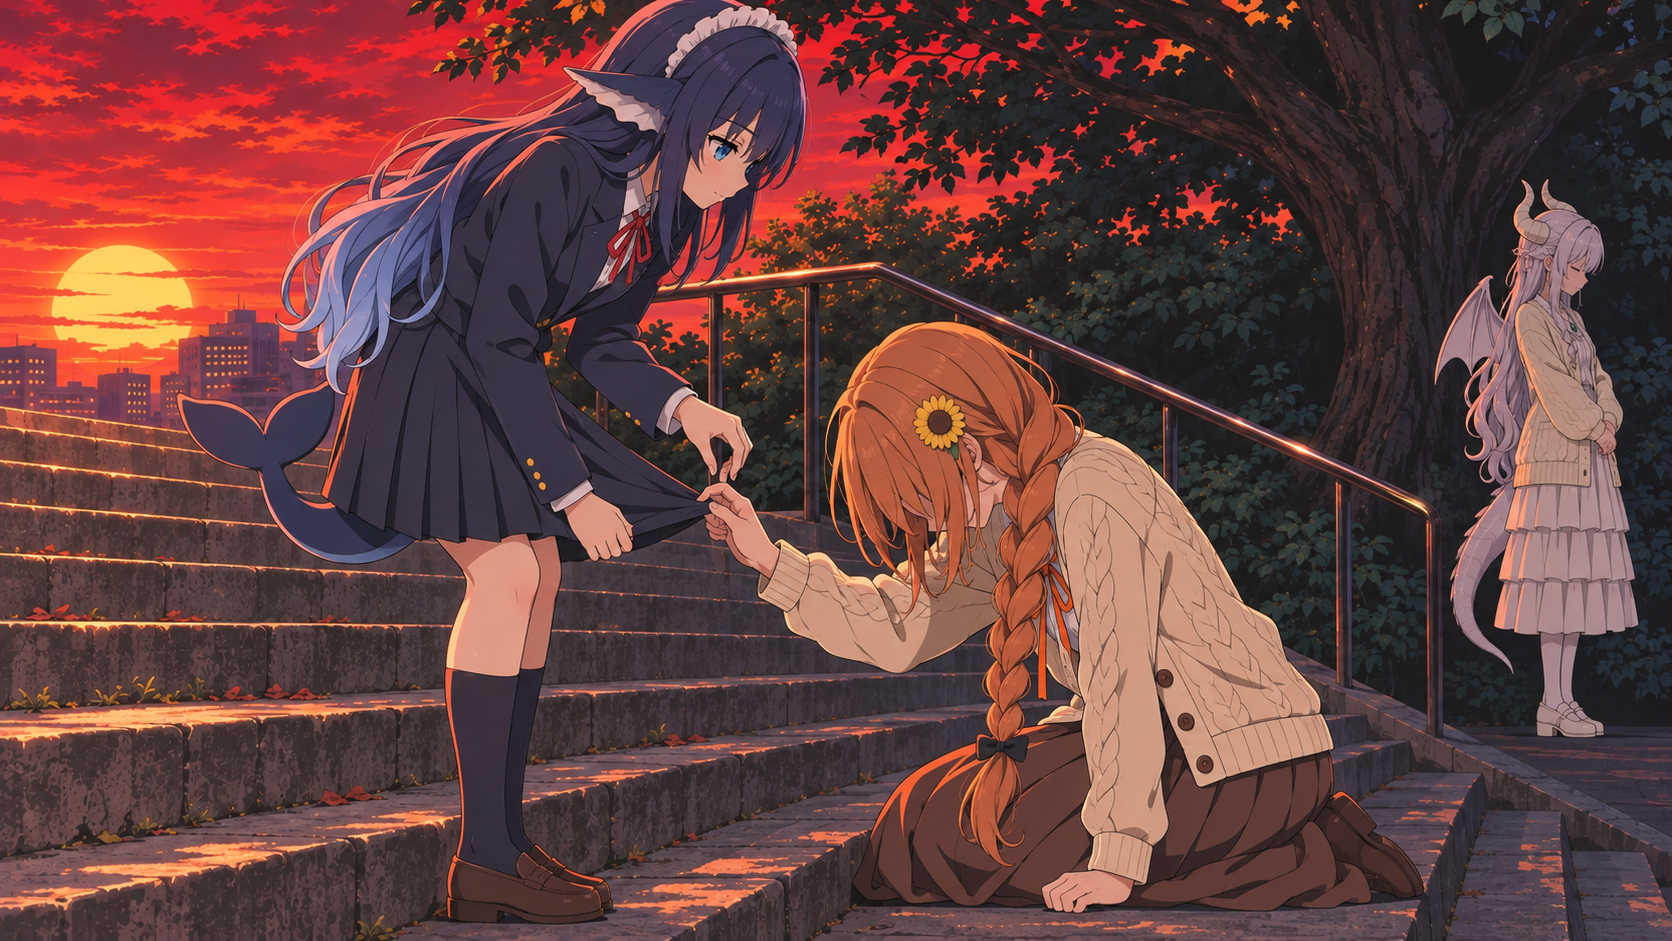
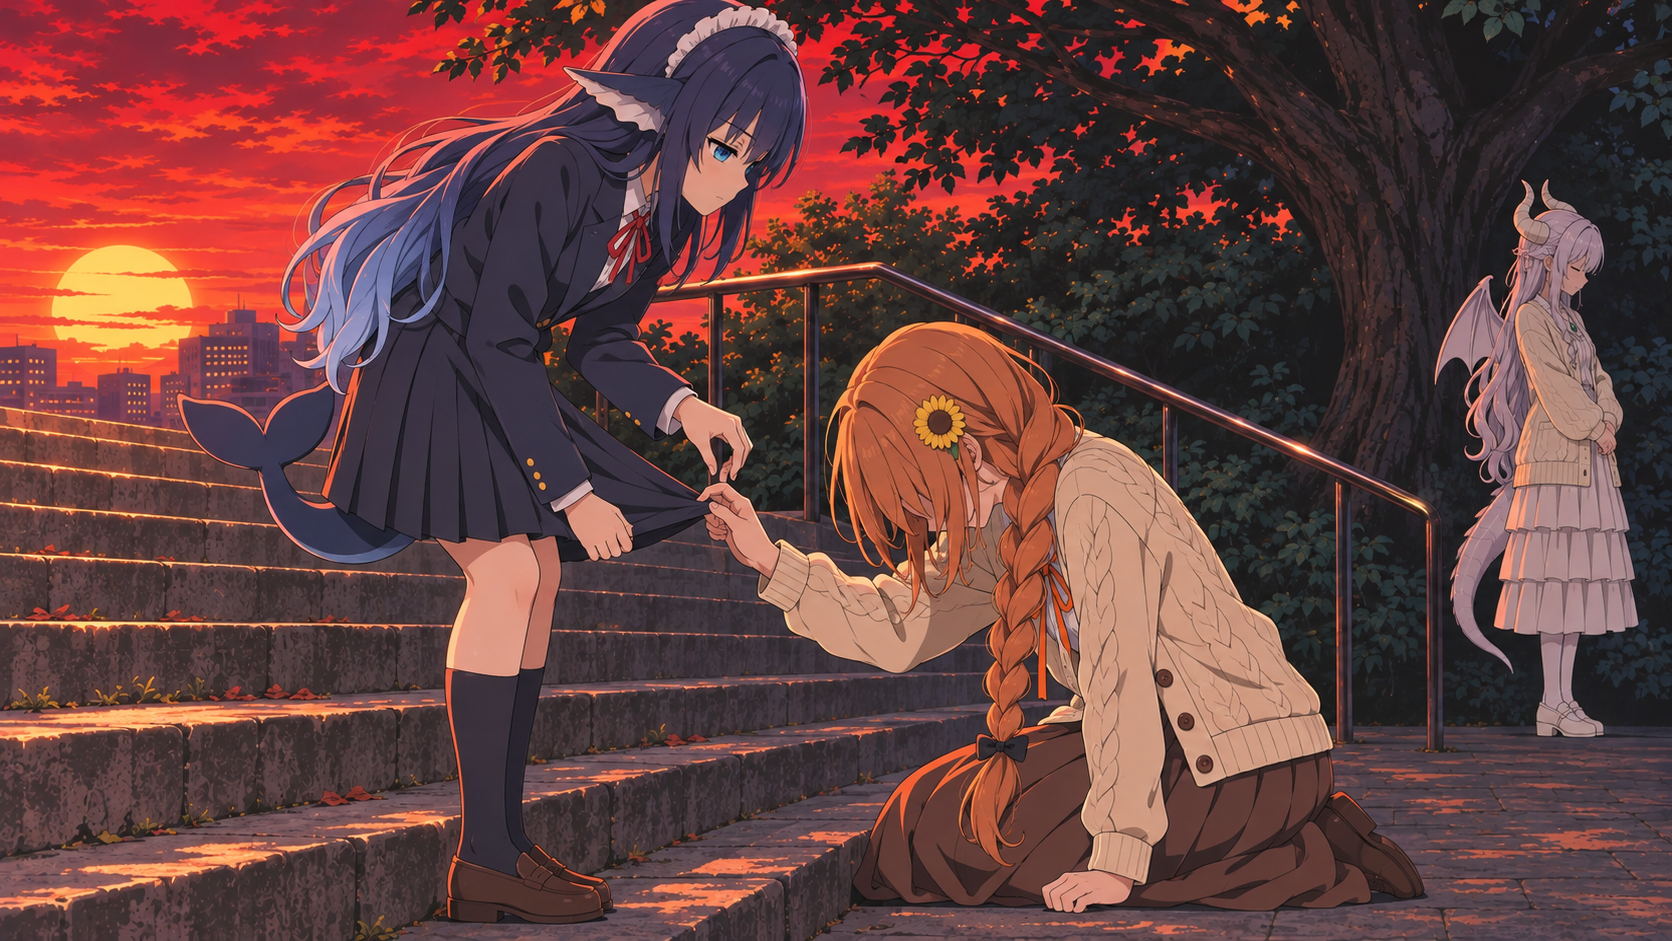
Update EP04 round 3 fixes (D flat landing, F flat landing, K notebook+neck)

diff --git a/ops/images/aigo/EP04-PART2-ACT2.md b/ops/images/aigo/EP04-PART2-ACT2.md
@@ -1,64 +1,10 @@
-# 《AiGO!!!!!》第4话 · Part 2 (Window 2 · 5 Images: Redo E + E open + Fix F [Cover] + F open + L open)
+# 《AiGO!!!!!》第4话 · Round 3 Fix (Window 2 · 1 Image: Fix `F` Stairs & Handrail → Flat Landing [Cover])
 
-**CRITICAL RULE FOR DP (THE WHALE GIRL):**
-> **"for dp, she shouldn't has not emotion in face"** — DP = the whale girl: **no smile, no smirk, no blush** in 第4话. Her face stays blank and cold in every shot and every mouth frame.
+**Reference image to load from this repo (`whitecarp/agentic-work-lab`):**
+- `ops/images/aigo/stills/ep04/EP4_F_fingers.png`
 
-All reference images are in `ops/images/aigo/stills/` and `ops/images/aigo/stills/ep04/` in this repository (`whitecarp/agentic-work-lab`).
-Please generate these **5 images** in order:
-
----
-
-## 1. Redo `E` · `EP4_E_whale_above.png` (Waist-up shot, large face, NO smirk/smile — completely expressionless)
-**Reference images to load from repo:**
-- `ops/images/aigo/stills/EP2X_00_cast.png`
-- `ops/images/aigo/stills/ep04/EP4_A_steps.png`
+Please generate this **1 image** using the exact prompt below:
 
 ```
-Use the attached character sheet (five girls) as the exact character and outfit reference; faces, hair, ears, horns, tails, eye colours and outfits must match. Use the attached wide shot of the stone steps as the location: the same wide stone steps, the same metal handrails on both sides, the same trees and the same red sunset. The top of the steps is where the whale girl stood in the wide shot, and the setting sun is beyond the top. Art style: a crisp Japanese TV-anime frame: thin black line art, two-tone cel shading, soft desaturated colours, the look of a modern drama anime, not a glossy painted poster. The characters are adult anime women. Nobody wears a mask. Five fingers per hand. No text, letters, logos, watermarks or subtitles anywhere. 16:9, 1920×1080 or larger.
-
-Characters: The whale girl (far left on the five-girl sheet: navy hair fading lighter at the tips, bright blue eyes, fin-shaped ears, a thin white frilled headband, a navy blazer with a small red ribbon, a dark pleated skirt, a navy whale tail).
-
-Shot: Medium close-up from a low angle, from the kneeling amber girl's point of view a step below, looking UP at the whale girl from her waist up; her face is large in the frame. She stands at the top of the steps and looks down at us, the huge setting sun right behind her head so she is strongly backlit, rim light on her hair and fin-shaped ears; her face is in cool shadow but clearly visible and completely expressionless: calm, cold eyes empty of feeling, her mouth a flat closed line, no smile, no blush. Behind her only the red sky and the sun; no steps going down behind her. Her lips are closed.
-```
-
----
-
-## 2. `E open` (talking · DP expressionless!) · `kuchipaku/EP4_E_whale_above_mouth-open.png`
-**Reference image:** Use the newly generated waist-up `EP4_E_whale_above.png` from Step 1 above.
-
-```
-Edit ONLY the mouth of the whale girl. Her lips part just a little, as when calmly saying "e": a narrow opening with a thin line of upper teeth. Not a gasp, no tongue. Her face stays completely expressionless: do not change her eyes, eyelids, eyebrows, cheeks or blush in any way. Everything else in the image stays 100% untouched. Same 16:9 framing, same position and size, same anime style, no text.
-```
-
----
-
-## 3. Fix `F` (Also the Episode 4 Cover) · `EP4_F_fingers.png`
-**Reference image to load from repo:**
-- `ops/images/aigo/stills/ep04/EP4_F_fingers-v1-stairs.png`
-
-*(Note: If you are doing this manually in the ChatGPT UI, you can also use the brush tool (`Mark`) on these two areas as noted in `EP04-PASTE.md`.)*
-
-```
-Edit ONLY two specific areas of the attached image (EP4_F_fingers-v1-stairs.png) while keeping the rest of the picture 100% untouched:
-1. The whale girl's face on the left: Make her face completely expressionless: her mouth a flat, closed line with no smile, her eyes calm, cold and empty of feeling, still looking down at the kneeling girl. No blush. Keep her hair, ears, headband and everything else exactly as it is.
-2. The steps to the right of the kneeling amber girl: The stairs end here: the amber girl kneels on the lowest step, and to the right of her is a flat stone landing at the foot of the stairs, stretching back to the tree where the dragon girl stands. No steps climbing up to the right of her. Keep the kneeling amber girl, her shoes, her skirt, the whale girl's hands prying her fingers off the blazer hem, and the dragon girl in the background exactly as they are. Same 16:9 framing, same anime style, no text.
-```
-
----
-
-## 4. `F open` (talking · DP expressionless!) · `kuchipaku/EP4_F_fingers_mouth-open.png`
-**Reference image:** Use the fixed `EP4_F_fingers.png` you just generated in Step 3 above.
-
-```
-Edit ONLY the mouth of the whale girl on the left. Her lips part just a little, as when calmly saying "e": a narrow opening with a thin line of upper teeth. Not a gasp, no tongue. Her face stays completely expressionless: do not change her eyes, eyelids, eyebrows, cheeks or blush in any way. Everything else in the image stays 100% untouched. Same 16:9 framing, same position and size, same anime style, no text.
-```
-
----
-
-## 5. `L open` (talking) · `kuchipaku/EP4_L_claude_cruel_mouth-open.png`
-**Reference image to load from repo:**
-- `ops/images/aigo/stills/ep04/EP4_L_claude_cruel.png`
-
-```
-Edit the attached anime image. Change ONLY the mouth of the amber girl: open as when saying "a" in normal speech, a small rounded opening with a little of the upper teeth and the dark inside of the mouth. Not shouting, not wide. Keep her expression. Everything else stays exactly as it is: eyes, tears, hair, ears, outfit, hands, the other girls, the lighting, the framing and the background. Same 16:9 framing, same position and size, same anime style, no text.
+Edit the attached picture. Change ONLY the stone steps, the ground and the metal handrail. The whale girl and the kneeling amber girl are both on one flat, level stone landing partway up the long park steps. Behind the whale girl, on the left, the next flight of stone steps climbs up and away toward the sunset, as it does now. Under and in front of both girls the paving is flat all the way to the bottom edge of the picture: remove the steps that go down in the lower-left corner. The handrail climbs beside the steps on the left, then runs level above the flat landing; it does not slope down across the landing. The dragon girl stands on the same flat landing under the tree. Keep all three girls exactly as they are: poses, faces, hands, hair, clothes and shoes. Same framing, same anime style, no text.
 ```

diff --git a/ops/images/aigo/EP04-PART3-ACT3.md b/ops/images/aigo/EP04-PART3-ACT3.md
@@ -1,67 +1,10 @@
-# 《AiGO!!!!!》第4话 · Part 3 (Window 3 · 6 Images: Fix K + Open-Mouth I, M, N, O, R)
+# 《AiGO!!!!!》第4话 · Round 3 Fix (Window 3 · 1 Image: Fix `K` Notebook + Guitar Neck from Behind)
 
-All reference images are in `ops/images/aigo/stills/` and `ops/images/aigo/stills/ep04/` in this repository (`whitecarp/agentic-work-lab`).
-Please generate these **6 images** in order:
+**Reference image to load from this repo (`whitecarp/agentic-work-lab`):**
+- `ops/images/aigo/stills/ep04/EP4_K_shock.png`
 
----
-
-## 1. Fix `K` · `EP4_K_shock.png` (v1 had a bent neck; v2 put the guitar beside her instead of on her back)
-**Reference image to load from repo:**
-- `ops/images/aigo/stills/ep04/EP4_K_shock-v1-bent-neck.png`
-
-*(Note: Edit ONLY the guitar area and the space just above her right shoulder [viewer's left], keeping both girls 100% untouched.)*
+Please generate this **1 image** using the exact prompt below:
 
 ```
-Edit ONLY the guitar on the orange cat girl's back and the space just above her right shoulder (viewer's left) in the attached image (EP4_K_shock-v1-bent-neck.png):
-She wears this guitar on her back, hidden behind her body. Only the top of its straight neck and the headstock show, rising straight up from behind her right shoulder, close to her head. Nothing stands or floats beside her: fill that space with the background, the concrete pillar and the dusk light. Keep both girls, their faces, expressions, hands, clothes, hair, ears and tails 100% untouched and exactly as they are. Same 16:9 framing, same anime style, no text.
-```
-
----
-
-## 2. `I open` (talking) · `kuchipaku/EP4_I_overpass_mouth-open.png`
-**Reference image to load from repo:**
-- `ops/images/aigo/stills/ep04/EP4_I_overpass.png`
-
-```
-Edit the attached anime image. Change ONLY the mouth of the orange cat girl on the left, in the red beret: open as when saying "a" in normal speech, a small rounded opening with a little of the upper teeth and the dark inside of the mouth. Not shouting, not wide. Keep her expression. Everything else stays exactly as it is: eyes, tears, hair, ears, outfit, hands, the other girls, the lighting, the framing and the background. Same 16:9 framing, same position and size, same anime style, no text.
-```
-
----
-
-## 3. `M open` (shouting) · `kuchipaku/EP4_M_grok_slam_mouth-open.png`
-**Reference image to load from repo:**
-- `ops/images/aigo/stills/ep04/EP4_M_grok_slam.png`
-
-```
-Edit the attached anime image. Change ONLY the mouth of the blonde girl at the drums: wide open as when shouting, the upper and lower teeth and the dark inside of the mouth showing, the jaw dropped. Keep her expression. Everything else stays exactly as it is: eyes, tears, hair, ears, outfit, hands, the other girls, the lighting, the framing and the background. Same 16:9 framing, same position and size, same anime style, no text.
-```
-
----
-
-## 4. `N open` (shouting) · `kuchipaku/EP4_N_mistral_cry_mouth-open.png`
-**Reference image to load from repo:**
-- `ops/images/aigo/stills/ep04/EP4_N_mistral_cry.png`
-
-```
-Edit the attached anime image. Change ONLY the mouth of the orange cat girl: wide open as when shouting, the upper and lower teeth and the dark inside of the mouth showing, the jaw dropped. Keep her expression. Everything else stays exactly as it is: eyes, tears, hair, ears, outfit, hands, the other girls, the lighting, the framing and the background. Same 16:9 framing, same position and size, same anime style, no text.
-```
-
----
-
-## 5. `O open` (talking) · `kuchipaku/EP4_O_llama_case_mouth-open.png`
-**Reference image to load from repo:**
-- `ops/images/aigo/stills/ep04/EP4_O_llama_case.png`
-
-```
-Edit the attached anime image. Change ONLY the mouth of the alpaca girl sitting on the amp on the right: open as when saying "a" in normal speech, a small rounded opening with a little of the upper teeth and the dark inside of the mouth. Not shouting, not wide. Keep her expression. Everything else stays exactly as it is: eyes, tears, hair, ears, outfit, hands, the other girls, the lighting, the framing and the background. Same 16:9 framing, same position and size, same anime style, no text.
-```
-
----
-
-## 6. `R open` (talking) · `kuchipaku/EP4_R_gemini_resolve_mouth-open.png`
-**Reference image to load from repo:**
-- `ops/images/aigo/stills/ep04/EP4_R_gemini_resolve.png`
-
-```
-Edit the attached anime image. Change ONLY the mouth of the purple cat girl: open as when saying "a" in normal speech, a small rounded opening with a little of the upper teeth and the dark inside of the mouth. Not shouting, not wide. Keep her expression. Everything else stays exactly as it is: eyes, tears, hair, ears, outfit, hands, the other girls, the lighting, the framing and the background. Same 16:9 framing, same position and size, same anime style, no text.
+Edit the attached picture. Change only two things. 1) The purple cat girl holds her purple notebook pressed to her chest with one arm, as she did a moment earlier, while her other hand covers her mouth in horror. 2) The orange cat girl wears her guitar on her back, so from the front we see only the plain back of its straight neck and the back of the headstock behind her right shoulder: no frets, strings or tuning pegs facing us. Keep everything else exactly as it is: both faces and expressions, hair, ears, clothes, the lighting, the framing and the background. Same anime style, no text.
 ```

diff --git a/ops/images/aigo/EP04-PART1-ACT1.md b/ops/images/aigo/EP04-PART1-ACT1.md
@@ -1,57 +1,10 @@
-# 《AiGO!!!!!》第4话 · Part 1 (Window 1 · 5 Images: Fix B + Open-Mouth B, C, D, J)
+# 《AiGO!!!!!》第4话 · Round 3 Fix (Window 1 · 1 Image: Fix `D` Stairs → Flat Landing)
 
-**CRITICAL RULE FOR DP (THE WHALE GIRL):**
-> **"for dp, she shouldn't has not emotion in face"** — DP = the whale girl: **no smile, no smirk, no blush** in 第4话. Her face stays blank and cold in every shot and every mouth frame.
-
-All reference images are in `ops/images/aigo/stills/` and `ops/images/aigo/stills/ep04/` in this repository (`whitecarp/agentic-work-lab`).
-Please generate these **5 images** in order:
-
----
-
-## 1. Fix `B` · `EP4_B_claude_plead.png` (v2 drew red irises; she has amber eyes)
-**Reference images to load from repo:**
-- `ops/images/aigo/stills/ep04/EP4_B_claude_plead-v2-red-eyes.png`
-- `ops/images/aigo/stills/EP2X_00_cast.png`
-
-```
-Edit the attached picture of the crying amber girl on the stone steps. Change ONLY the colour of her irises: make them warm amber-gold, exactly like her eyes on the attached character sheet (five girls, second from left). Keep her tears, the wet, red-rimmed eyelids, her expression and everything else exactly as it is: hair, sunflower hairpin, outfit, hands, the steps, the lighting, the framing and the background. Same 16:9 framing, same anime style, no text.
-```
-
----
-
-## 2. `B open` (talking) · `kuchipaku/EP4_B_claude_plead_mouth-open.png`
-**Reference image:** Use the fixed `EP4_B_claude_plead.png` you just generated in Step 1 above.
-
-```
-Edit the attached anime image. Change ONLY the mouth of the amber girl: open as when saying "a" in normal speech, a small rounded opening with a little of the upper teeth and the dark inside of the mouth. Not shouting, not wide. Keep her expression. Everything else stays exactly as it is: eyes, tears, hair, ears, outfit, hands, the other girls, the lighting, the framing and the background. Same 16:9 framing, same position and size, same anime style, no text.
-```
-
----
-
-## 3. `C open` (talking · DP expressionless!) · `kuchipaku/EP4_C_whale_turn_mouth-open.png`
-**Reference image to load from repo:**
-- `ops/images/aigo/stills/ep04/EP4_C_whale_turn.png`
-
-```
-Edit ONLY the mouth of the whale girl. Her lips part just a little, as when calmly saying "e": a narrow opening with a thin line of upper teeth. Not a gasp, no tongue. Her face stays completely expressionless: do not change her eyes, eyelids, eyebrows, cheeks or blush in any way. Everything else in the image stays 100% untouched. Same 16:9 framing, same position and size, same anime style, no text.
-```
-
----
-
-## 4. `D open` (shouting) · `kuchipaku/EP4_D_kneel_mouth-open.png`
-**Reference image to load from repo:**
+**Reference image to load from this repo (`whitecarp/agentic-work-lab`):**
 - `ops/images/aigo/stills/ep04/EP4_D_kneel.png`
 
-```
-Edit the attached anime image. Change ONLY the mouth of the amber girl: wide open as when shouting, the upper and lower teeth and the dark inside of the mouth showing, the jaw dropped. Keep her expression. Everything else stays exactly as it is: eyes, tears, hair, ears, outfit, hands, the other girls, the lighting, the framing and the background. Same 16:9 framing, same position and size, same anime style, no text.
-```
-
----
-
-## 5. `J open` (talking) · `kuchipaku/EP4_J_claude_cold_mouth-open.png`
-**Reference image to load from repo:**
-- `ops/images/aigo/stills/ep04/EP4_J_claude_cold.png`
+Please generate this **1 image** using the exact prompt below:
 
 ```
-Edit the attached anime image. Change ONLY the mouth of the amber girl: open as when saying "a" in normal speech, a small rounded opening with a little of the upper teeth and the dark inside of the mouth. Not shouting, not wide. Keep her expression. Everything else stays exactly as it is: eyes, tears, hair, ears, outfit, hands, the other girls, the lighting, the framing and the background. Same 16:9 framing, same position and size, same anime style, no text.
+Edit the attached picture. Change ONLY the stone steps and the ground under and around the two girls. Both girls are on one flat, level stone landing partway up the long park steps: the whale girl stands on it on the left, and the amber girl kneels on it with both knees and both feet on the same flat paving. The flat paving continues to the bottom edge of the picture: no steps under the girls or in front of them. Behind them, only on the left, the next flight of stone steps climbs up and away toward the sunset. The metal handrail rises beside those steps and runs level above the flat landing on the right. Keep both girls exactly as they are: poses, faces, tears, hands, hair, clothes, shoes and the whale girl's tail. Same framing, same anime style, no text.
 ```

diff --git a/ops/images/aigo/EP04-PASTE.md b/ops/images/aigo/EP04-PASTE.md
@@ -238,6 +238,32 @@ Edit the attached picture of the crying amber girl on the stone steps. Change ON
 rather than image", "There is a small error with the stairs."). Claude builds the 16:9 and 4:3 from the fixed F and adds the
 words and the 第4话 tag. The fixed F also replaces F in the video, so make F's open-mouth edit from the FIXED F.
 
+## Fixes, round 3 (11-09 ~12:20: the user, 'The stairs for F and D are still incorrect.' and 'check I and K')
+
+D and F: the girls straddled step levels while the handrail ran at another angle, and F's steps went down below the landing
+where she kneels. The fix puts both girls on ONE flat landing; the next flight climbs only behind the whale girl, on the left.
+K: in I the purple cat girl hugs her notebook, and in K (a moment later) it is gone. K's guitar also showed its fretboard
+from the front although it is on her back. Use the latest D, F and K files as the input; Claude pastes back only the changed
+areas and keeps the girls from the originals.
+
+### D · `EP4_D_kneel.png` (the steps → one flat landing)
+Attach: ep04/EP4_D_kneel.png
+```
+Edit the attached picture. Change ONLY the stone steps and the ground under and around the two girls. Both girls are on one flat, level stone landing partway up the long park steps: the whale girl stands on it on the left, and the amber girl kneels on it with both knees and both feet on the same flat paving. The flat paving continues to the bottom edge of the picture: no steps under the girls or in front of them. Behind them, only on the left, the next flight of stone steps climbs up and away toward the sunset. The metal handrail rises beside those steps and runs level above the flat landing on the right. Keep both girls exactly as they are: poses, faces, tears, hands, hair, clothes, shoes and the whale girl's tail. Same framing, same anime style, no text.
+```
+
+### F · `EP4_F_fingers.png` (the steps and handrail → one flat landing; also the cover)
+Attach: ep04/EP4_F_fingers.png
+```
+Edit the attached picture. Change ONLY the stone steps, the ground and the metal handrail. The whale girl and the kneeling amber girl are both on one flat, level stone landing partway up the long park steps. Behind the whale girl, on the left, the next flight of stone steps climbs up and away toward the sunset, as it does now. Under and in front of both girls the paving is flat all the way to the bottom edge of the picture: remove the steps that go down in the lower-left corner. The handrail climbs beside the steps on the left, then runs level above the flat landing; it does not slope down across the landing. The dragon girl stands on the same flat landing under the tree. Keep all three girls exactly as they are: poses, faces, hands, hair, clothes and shoes. Same framing, same anime style, no text.
+```
+
+### K · `EP4_K_shock.png` (the notebook back; the guitar neck seen from behind)
+Attach: ep04/EP4_K_shock.png
+```
+Edit the attached picture. Change only two things. 1) The purple cat girl holds her purple notebook pressed to her chest with one arm, as she did a moment earlier, while her other hand covers her mouth in horror. 2) The orange cat girl wears her guitar on her back, so from the front we see only the plain back of its straight neck and the back of the headstock behind her right shoulder: no frets, strings or tuning pegs facing us. Keep everything else exactly as it is: both faces and expressions, hair, ears, clothes, the lighting, the framing and the background. Same anime style, no text.
+```
+
 ## Open-mouth edits
 
 Attach ONLY the finished still. Save the result as `ops/images/aigo/stills/ep04/kuchipaku/<still name>_mouth-open.png`.
